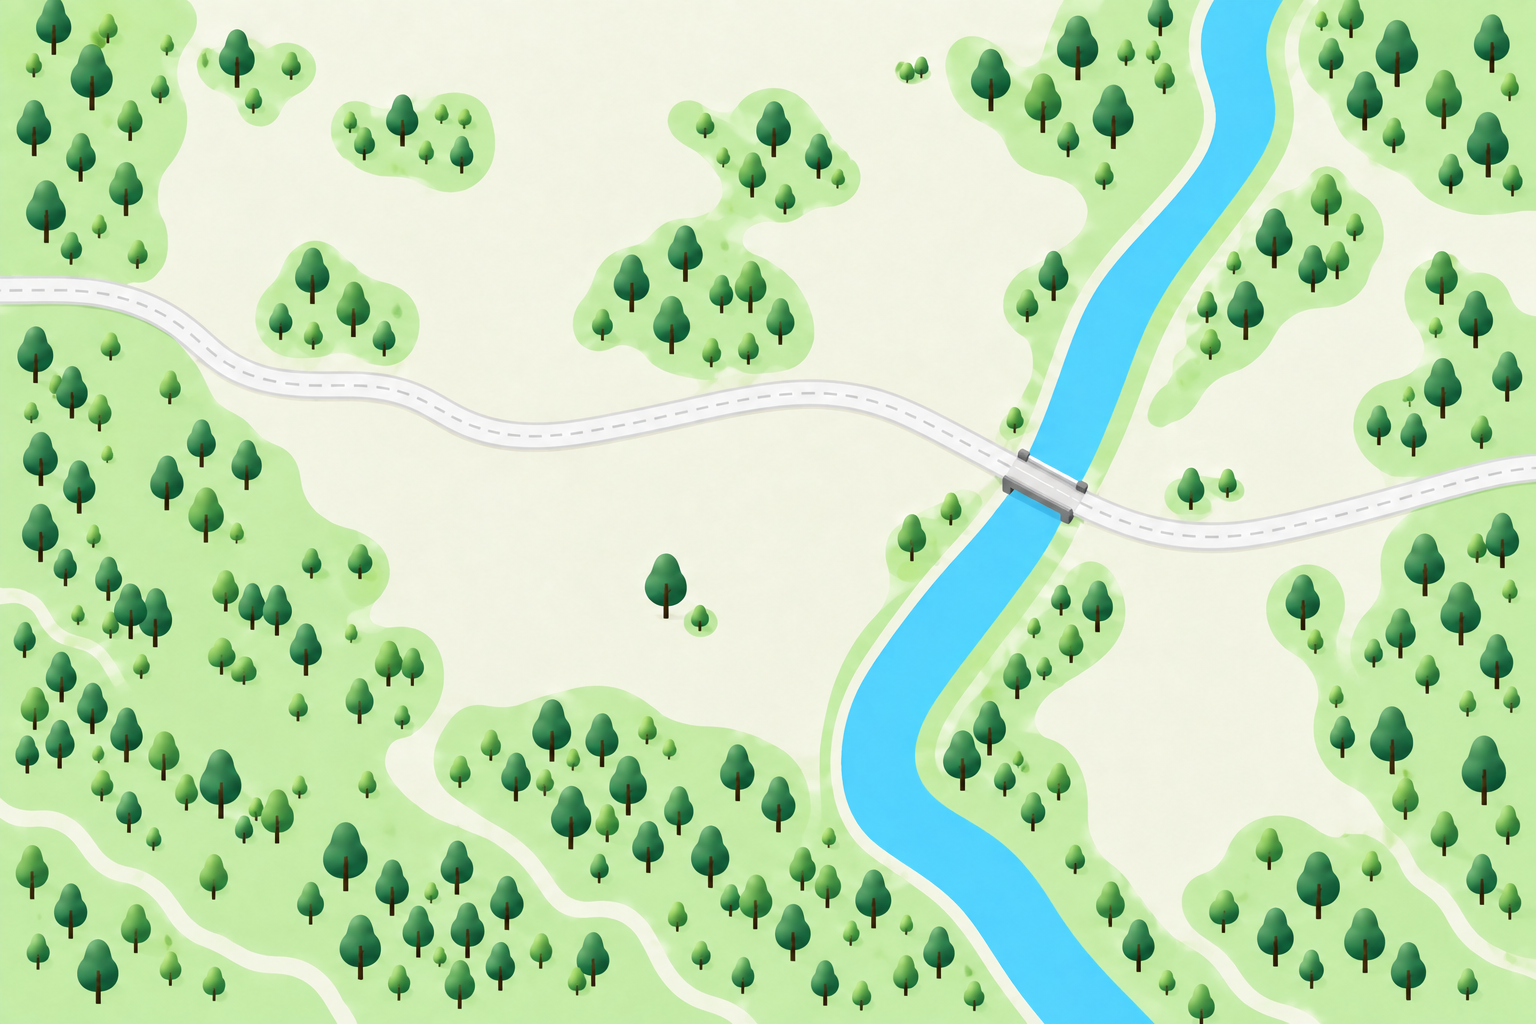
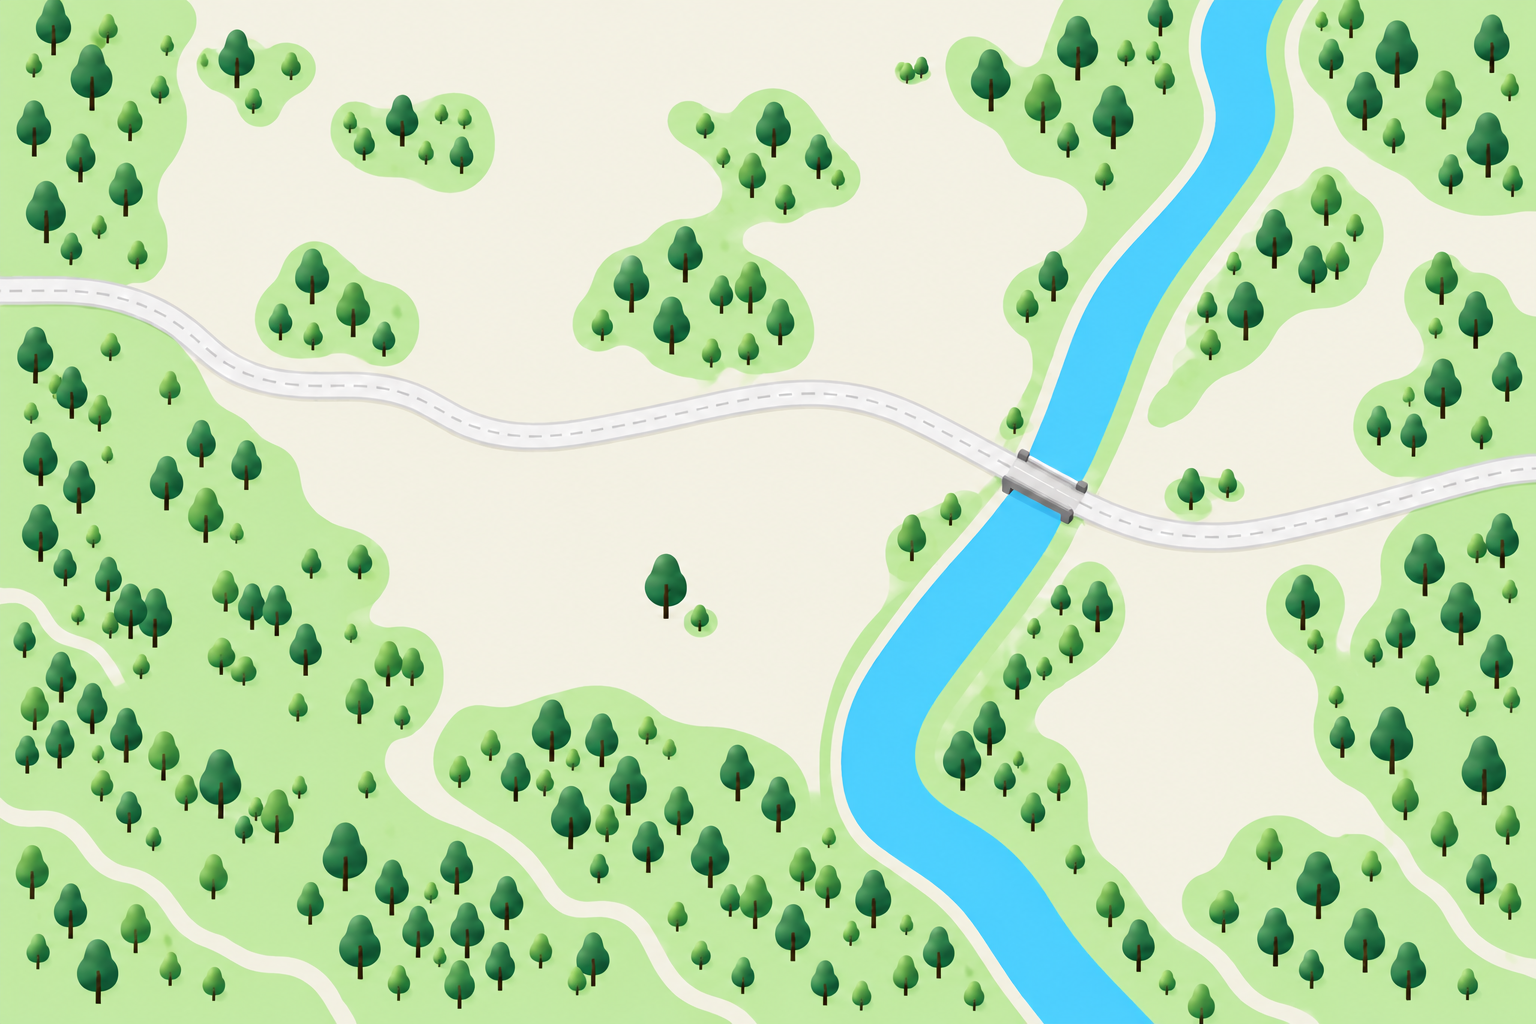
Keep vehicles on roads and match cleared ground

diff --git a/unity/Assets/UrbanWildlife/Scripts/Mobility/CityNetworkRouteBuilder.cs b/unity/Assets/UrbanWildlife/Scripts/Mobility/CityNetworkRouteBuilder.cs
@@ -40,14 +40,31 @@ namespace UrbanWildlife.Mobility
             string originConnectorId = originLine.ConnectedLineIds.FirstOrDefault() ?? originLine.Id;
             string destinationConnectorId = destinationLine.ConnectedLineIds.FirstOrDefault() ??
                                             destinationLine.Id;
-            if (network.TryGetValue(originConnectorId, out NetworkLine originConnector))
+            if (originConnectorId == destinationConnectorId &&
+                network.TryGetValue(originConnectorId, out NetworkLine sharedConnector))
             {
-                AppendOriented(route, originConnector.Points, city.bounds);
+                float[] destinationJoin = EndpointNearestPolyline(
+                    destinationLine.Points,
+                    sharedConnector.Points,
+                    city.bounds);
+                AppendBetweenNearestProjections(
+                    route,
+                    sharedConnector.Points,
+                    route[route.Count - 1],
+                    destinationJoin,
+                    city.bounds);
             }
-            if (destinationConnectorId != originConnectorId &&
-                network.TryGetValue(destinationConnectorId, out NetworkLine destinationConnector))
+            else
             {
-                AppendOriented(route, destinationConnector.Points, city.bounds);
+                if (network.TryGetValue(originConnectorId, out NetworkLine originConnector))
+                {
+                    AppendOriented(route, originConnector.Points, city.bounds);
+                }
+                if (destinationConnectorId != originConnectorId &&
+                    network.TryGetValue(destinationConnectorId, out NetworkLine destinationConnector))
+                {
+                    AppendOriented(route, destinationConnector.Points, city.bounds);
+                }
             }
 
             bool destinationLineAlreadyAdded = destinationLine.Id == originLine.Id ||
@@ -107,7 +124,14 @@ namespace UrbanWildlife.Mobility
                 {
                     break;
                 }
-                AppendOriented(route, next.Points, city.bounds);
+                if (TouchesMapEdge(next.Points))
+                {
+                    AppendFromNearestProjectionToBoundary(route, next.Points, city.bounds);
+                }
+                else
+                {
+                    AppendOriented(route, next.Points, city.bounds);
+                }
                 current = next;
                 visited.Add(current.Id);
             }
@@ -207,9 +231,164 @@ namespace UrbanWildlife.Mobility
             route.Add(ClonePoint(point));
         }
 
+        private static void AppendFromNearestProjectionToBoundary(
+            List<float[]> route,
+            float[][] points,
+            CityBounds bounds)
+        {
+            float[] current = route[route.Count - 1];
+            PolylineProjection projection = ProjectPointOntoPolyline(current, points, bounds);
+            AppendDistinct(route, projection.Point);
+
+            float distanceToStart = DistanceAlongPolylineToStart(
+                points,
+                projection.SegmentIndex,
+                projection.Point,
+                bounds);
+            float distanceToEnd = DistanceAlongPolylineToEnd(
+                points,
+                projection.SegmentIndex,
+                projection.Point,
+                bounds);
+            bool startTouchesBoundary = PointTouchesMapEdge(points[0]);
+            bool endTouchesBoundary = PointTouchesMapEdge(points[points.Length - 1]);
+            bool towardStart = startTouchesBoundary &&
+                               (!endTouchesBoundary || distanceToStart <= distanceToEnd);
+            if (towardStart)
+            {
+                for (int index = projection.SegmentIndex; index >= 0; index -= 1)
+                {
+                    AppendDistinct(route, points[index]);
+                }
+                return;
+            }
+            for (int index = projection.SegmentIndex + 1; index < points.Length; index += 1)
+            {
+                AppendDistinct(route, points[index]);
+            }
+        }
+
+        private static void AppendBetweenNearestProjections(
+            List<float[]> route,
+            float[][] points,
+            float[] startReference,
+            float[] endReference,
+            CityBounds bounds)
+        {
+            PolylineProjection start = ProjectPointOntoPolyline(startReference, points, bounds);
+            PolylineProjection end = ProjectPointOntoPolyline(endReference, points, bounds);
+            AppendDistinct(route, start.Point);
+            float startPosition = start.SegmentIndex + start.SegmentT;
+            float endPosition = end.SegmentIndex + end.SegmentT;
+            if (startPosition <= endPosition)
+            {
+                for (int index = start.SegmentIndex + 1; index <= end.SegmentIndex; index += 1)
+                {
+                    AppendDistinct(route, points[index]);
+                }
+            }
+            else
+            {
+                for (int index = start.SegmentIndex; index > end.SegmentIndex; index -= 1)
+                {
+                    AppendDistinct(route, points[index]);
+                }
+            }
+            AppendDistinct(route, end.Point);
+        }
+
+        private static float[] EndpointNearestPolyline(
+            float[][] candidateLine,
+            float[][] targetPolyline,
+            CityBounds bounds)
+        {
+            float[] first = candidateLine[0];
+            float[] last = candidateLine[candidateLine.Length - 1];
+            return ProjectPointOntoPolyline(first, targetPolyline, bounds).Distance <=
+                   ProjectPointOntoPolyline(last, targetPolyline, bounds).Distance
+                ? first
+                : last;
+        }
+
+        private static PolylineProjection ProjectPointOntoPolyline(
+            float[] point,
+            float[][] polyline,
+            CityBounds bounds)
+        {
+            PolylineProjection closest = new PolylineProjection
+            {
+                SegmentIndex = 0,
+                SegmentT = 0f,
+                Point = ClonePoint(polyline[0]),
+                Distance = float.PositiveInfinity,
+            };
+            for (int index = 0; index < polyline.Length - 1; index += 1)
+            {
+                float[] start = polyline[index];
+                float[] end = polyline[index + 1];
+                float dx = (end[0] - start[0]) * bounds.width_units;
+                float dy = (end[1] - start[1]) * bounds.height_units;
+                float px = (point[0] - start[0]) * bounds.width_units;
+                float py = (point[1] - start[1]) * bounds.height_units;
+                float denominator = dx * dx + dy * dy;
+                float t = denominator <= 0.000001f
+                    ? 0f
+                    : Math.Max(0f, Math.Min(1f, (px * dx + py * dy) / denominator));
+                float[] projected =
+                {
+                    start[0] + (end[0] - start[0]) * t,
+                    start[1] + (end[1] - start[1]) * t,
+                };
+                float distance = Distance(point, projected, bounds);
+                if (distance < closest.Distance)
+                {
+                    closest.SegmentIndex = index;
+                    closest.SegmentT = t;
+                    closest.Point = projected;
+                    closest.Distance = distance;
+                }
+            }
+            return closest;
+        }
+
+        private static float DistanceAlongPolylineToStart(
+            float[][] points,
+            int segmentIndex,
+            float[] projection,
+            CityBounds bounds)
+        {
+            float distance = Distance(projection, points[segmentIndex], bounds);
+            for (int index = segmentIndex; index > 0; index -= 1)
+            {
+                distance += Distance(points[index], points[index - 1], bounds);
+            }
+            return distance;
+        }
+
+        private static float DistanceAlongPolylineToEnd(
+            float[][] points,
+            int segmentIndex,
+            float[] projection,
+            CityBounds bounds)
+        {
+            float distance = Distance(projection, points[segmentIndex + 1], bounds);
+            for (int index = segmentIndex + 1; index < points.Length - 1; index += 1)
+            {
+                distance += Distance(points[index], points[index + 1], bounds);
+            }
+            return distance;
+        }
+
         private static bool TouchesMapEdge(float[][] points)
         {
             return BoundaryDistance(points) <= 0.055f;
+        }
+
+        private static bool PointTouchesMapEdge(float[] point)
+        {
+            return Math.Min(
+                Math.Min(point[0], 1f - point[0]),
+                Math.Min(point[1], 1f - point[1])) <= 0.055f;
         }
 
         private static float BoundaryDistance(float[][] points)
@@ -279,6 +458,14 @@ namespace UrbanWildlife.Mobility
             public string Id { get; }
             public float[][] Points { get; }
             public string[] ConnectedLineIds { get; }
+        }
+
+        private struct PolylineProjection
+        {
+            public int SegmentIndex;
+            public float SegmentT;
+            public float[] Point;
+            public float Distance;
         }
     }
 }

diff --git a/unity/Assets/UrbanWildlife/Editor/CityPrototypeSceneTools.cs b/unity/Assets/UrbanWildlife/Editor/CityPrototypeSceneTools.cs
@@ -9,6 +9,7 @@ using UnityEngine.SceneManagement;
 using UrbanWildlife.City;
 using UrbanWildlife.Construction;
 using UrbanWildlife.Input;
+using UrbanWildlife.Mobility;
 using UrbanWildlife.Networks;
 using UrbanWildlife.Planning;
 using UrbanWildlife.Prototype;
@@ -209,6 +210,7 @@ namespace UrbanWildlife.EditorTools
             VerifyGridConstructionRules();
             VerifyFreePlacementAndAutomaticAccess();
             VerifyDesktopPlayableFlow(prototype);
+            VerifyVehicleRoutesStayOnRoad();
             Debug.Log(
                 "UNITY_CITY_PROTOTYPE_SMOKE_OK split_screen=True right_sidebar=True bright_city_style=True opening_buildings=2 vehicle_roads=3 " +
                 "planning_grid=9x6 planning_cells=54 available_cells=43 multi_cell_buildings=True hidden_grid=True " +
@@ -221,7 +223,7 @@ namespace UrbanWildlife.EditorTools
                 "visible_footprint_tyre_bird_paw_tracks=True city_feed_panel=True phase_snapshot=True " +
                 "desktop_play_default=True click_preview_confirm_build=True camera_mode_retained=True " +
                 "camera_scan_file_bridge=True scan_preview_route_dp_construction=True " +
-                "sparse_opening_map=True no_premature_buildings=True");
+                "sparse_opening_map=True road_following=True no_premature_buildings=True");
         }
 
         private static void VerifyResidentialBuildingVisuals(CityPrototypeDemo prototype)
@@ -916,6 +918,37 @@ namespace UrbanWildlife.EditorTools
             Debug.Log(
                 "UNITY_CITY_DESKTOP_PLAY_SMOKE_OK default_mode=Desktop palette=True pointer_preview=True " +
                 "confirm_build=True camera_required=False camera_mode_retained=True");
+        }
+
+        private static void VerifyVehicleRoutesStayOnRoad()
+        {
+            CityState city = CityPrototypeStateFactory.Create();
+            CityMobilityPlan plan = CityTripPlanner.CreatePlan(city);
+            CityRepresentativeTrip[] externalTrips = plan.trips
+                .Where(trip => trip.purpose == CityTripPurpose.ExternalJourney)
+                .ToArray();
+            float longestSegment = externalTrips
+                .SelectMany(trip => trip.route_points_norm.Zip(
+                    trip.route_points_norm.Skip(1),
+                    (first, second) => RouteSegmentLength(first, second, city.bounds)))
+                .DefaultIfEmpty(0f)
+                .Max();
+            if (externalTrips.Length == 0 || longestSegment > 15f)
+            {
+                throw new InvalidOperationException(
+                    $"Vehicle route leaves the road centreline: trips={externalTrips.Length}, " +
+                    $"longestSegment={longestSegment:0.00} units.");
+            }
+            Debug.Log(
+                $"UNITY_CITY_VEHICLE_ROAD_FOLLOWING_SMOKE_OK external_trips={externalTrips.Length} " +
+                $"longest_segment_units={longestSegment:0.00} projected_main_road_join=True");
+        }
+
+        private static float RouteSegmentLength(float[] first, float[] second, CityBounds bounds)
+        {
+            float x = (first[0] - second[0]) * bounds.width_units;
+            float y = (first[1] - second[1]) * bounds.height_units;
+            return Mathf.Sqrt(x * x + y * y);
         }
 
         private static CityTokenScanPacket ScanPacket(string id, CityTokenState[] tokens)

diff --git a/unity/Assets/UrbanWildlife/Scripts/Prototype/CityPrototypeDemo.cs b/unity/Assets/UrbanWildlife/Scripts/Prototype/CityPrototypeDemo.cs
@@ -384,7 +384,7 @@ namespace UrbanWildlife.Prototype
 
             SpriteRenderer renderer = artwork.AddComponent<SpriteRenderer>();
             renderer.sprite = underlay;
-            renderer.color = new Color(0.96f, 0.98f, 0.94f, 1f);
+            renderer.color = Color.white;
             renderer.sortingOrder = -50;
         }
 
@@ -431,7 +431,7 @@ namespace UrbanWildlife.Prototype
                         "Cleared white ground",
                         clearingShape,
                         0.018f,
-                        new Color(0.975f, 0.968f, 0.935f, 0.93f),
+                        new Color(243f / 255f, 241f / 255f, 227f / 255f, 1f),
                         -27,
                         true);
                 }

diff --git a/docs/DECISIONS.md b/docs/DECISIONS.md
@@ -111,6 +111,7 @@
 | D103 | 建筑Token保留摄像头读取的连续坐标与角度，不再吸附格心；9 × 6网格只作为后台占地和生态统计层。建筑可放在Open Land或Woodland任意位置，但不得越界、重叠既有建筑、Water、Civic Plaza、Public Green或任何机动车道路。确认建筑后系统从建筑边缘生成11点平滑支路并接入最近Main Road；建筑与新支路覆盖的Woodland移除对应栖息地数据并显示为暖白开垦地 | 已实现并通过连续坐标、道路禁放、自动曲线接路和林地转白地烟雾测试；替代D098/D099中的格心吸附规则，保留其网格尺寸与不同建筑占地规格 |
 | D104 | 同一城市核心提供两种输入模式，避免复制两套会逐渐分叉的工程：Desktop为默认、无需摄像头，可从建筑面板选择类型并直接点击地图完成Preview和建设；Camera继续读取实体Token扫描并保留确认流程 | Desktop放置仍复用Token校验、占地、道路避让、DP、施工与自动接路系统；Camera入口和文件桥保持可用，已分别通过烟雾测试 |
 | D105 | 开局房屋遵循Riverside Park参考图的浅柔色彩：高明度奶油墙面、粉蓝与柔珊瑚屋顶、浅鼠尾草绿庭院，控制阴影和材质体积感；初始两栋住宅分别使用蓝/珊瑚变体 | 已导出透明RGBA Unity素材并接入；住宅形态、草坪底座和路径轮廓不变，仅统一色彩明度、饱和度与冷暖关系 |
+| D106 | 房屋支路与主干道不再通过主路远端点拼接；车辆从支路末端投影到最近主路中心线，沿主路折线前往最近地图出口，返回时反向复用完整路线。底图开放地和运行时清林地统一使用 `#F3F1E3` | 已消除车辆斜穿空地和两种暖白底色跳变；最长连续车辆路段8.75单位，通过道路跟随烟雾测试 |
 
 ## 待确定顺序
 

diff --git a/docs/devlog/2026-09-14.md b/docs/devlog/2026-09-14.md
@@ -128,3 +128,13 @@
   clearing, automatic access and repeated click-to-build flow.
 - Camera scan validation remains available and is explicitly distinguished from
   Desktop pointer input metadata.
+
+## Road-following and ground-colour correction
+
+- Corrected external car routing at branch-to-main-road joins: vehicles now
+  project onto the nearest point of the main-road centreline and follow its
+  existing vertices to the nearest map exit instead of cutting diagonally toward
+  a distant endpoint.
+- Unified all open construction ground and runtime woodland clearings to the same
+  warm ivory baseline (`#F3F1E3`), while keeping the road slightly cooler for
+  legibility.
